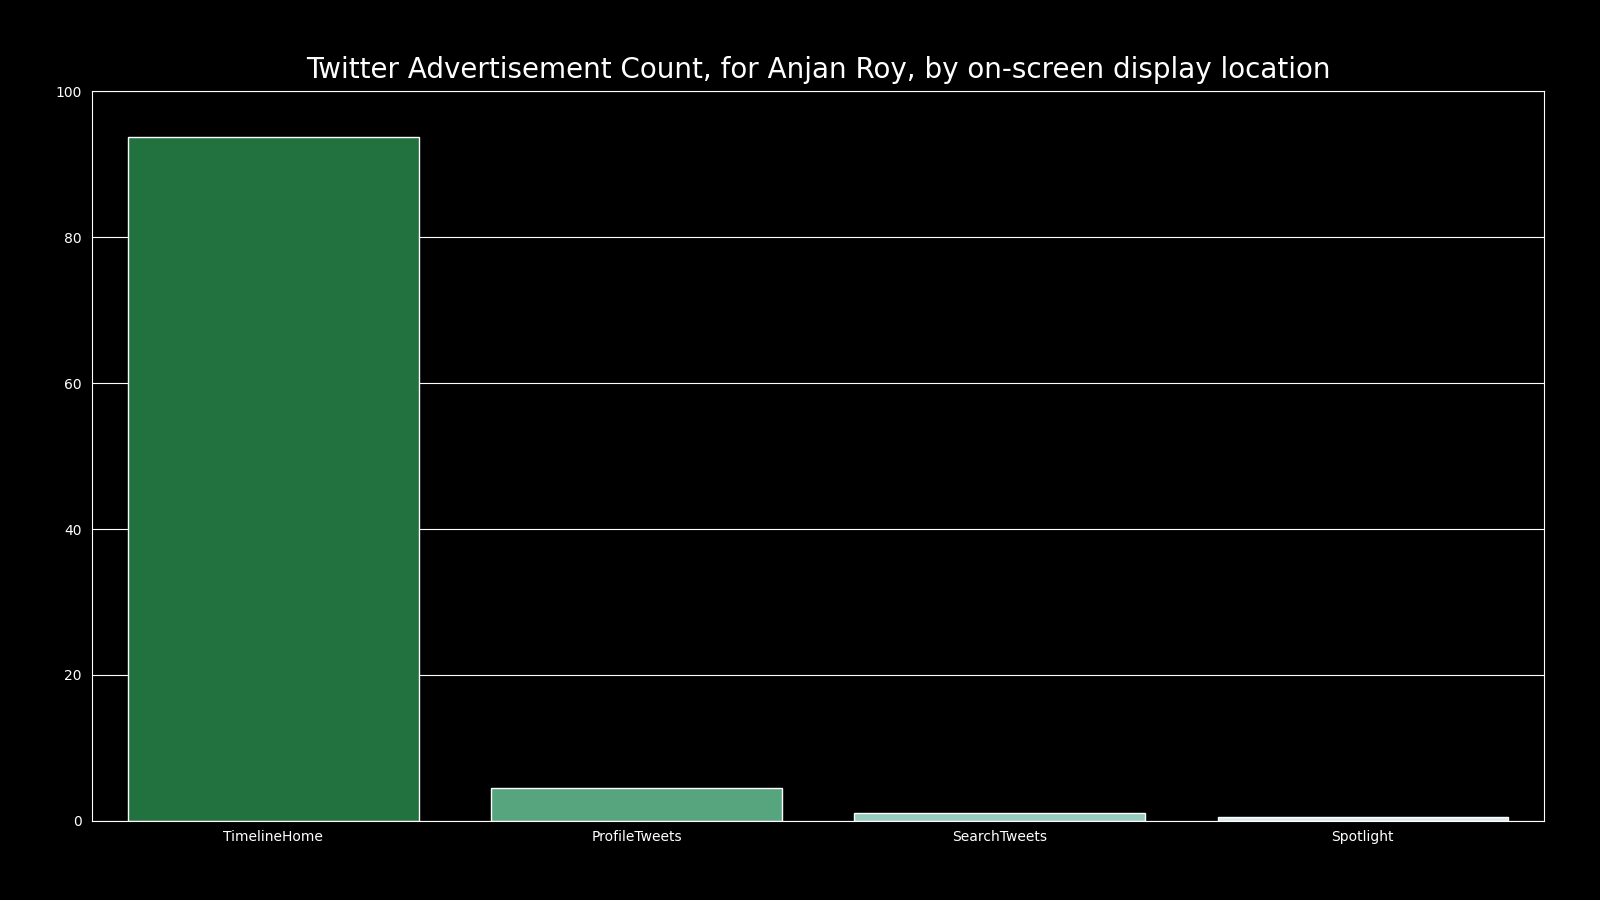
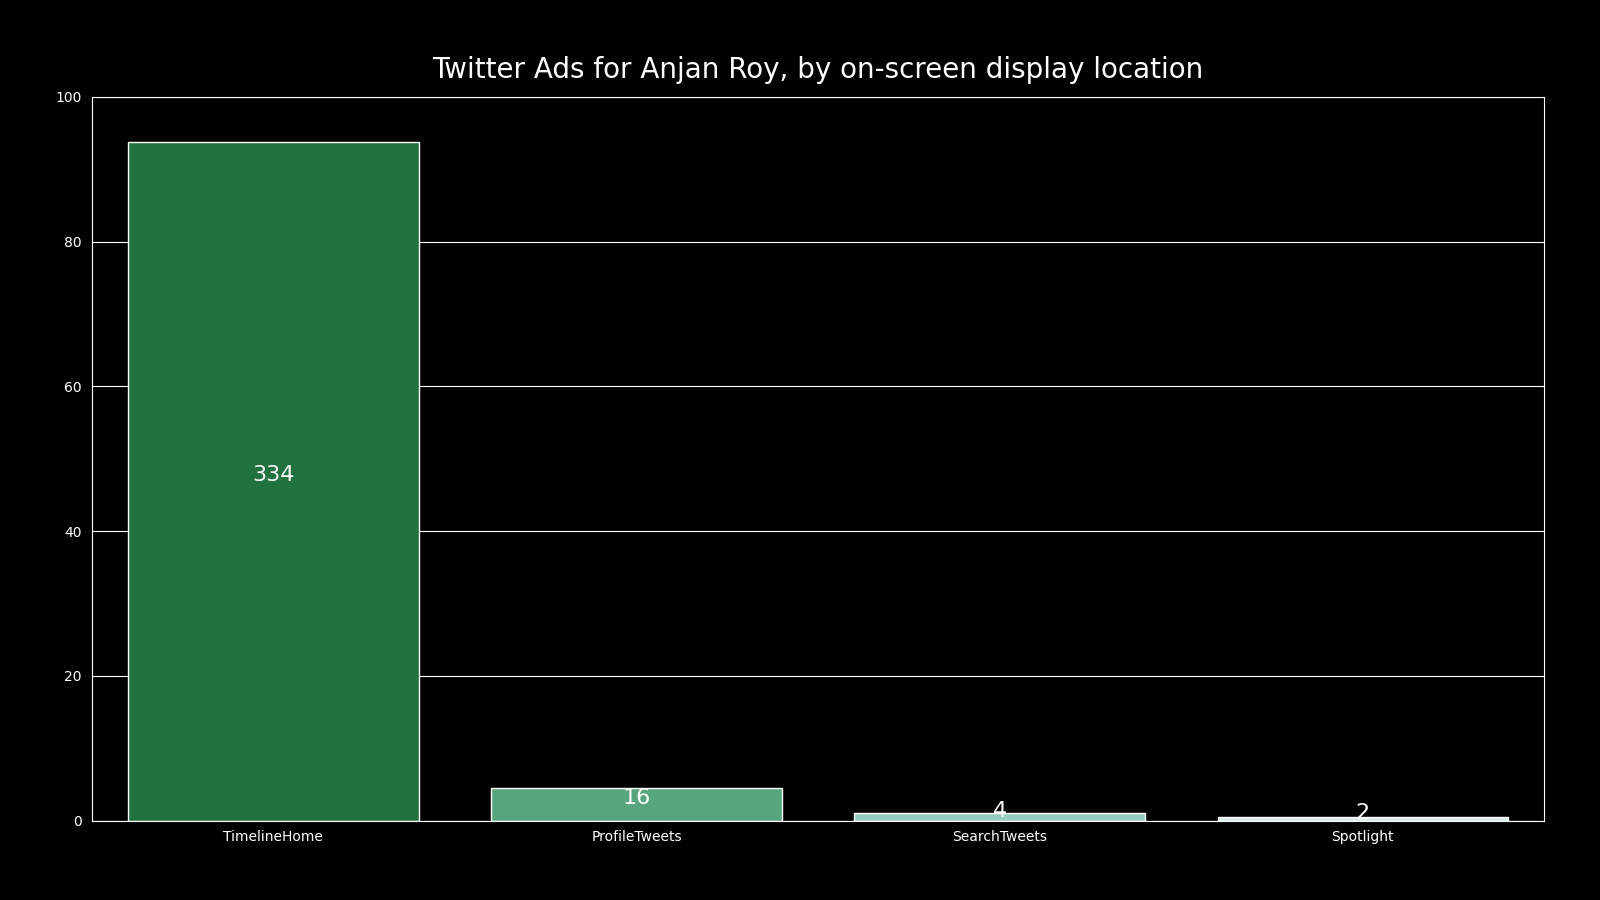
generated plot, added doc, updated readme

diff --git a/twiz/plot/ad/engagement/viz.py b/twiz/plot/ad/engagement/viz.py
@@ -43,13 +43,25 @@ def plotPercentageOfShownAdsByLocationOfDisplay(data: Engagements, title: str, s
         x = [i[0] for i in _tmp]
         y = [i[1] for i in _tmp]
 
+        _counts = data.countByDisplayLocation()
+        _counts = [_counts[i] for i in x]
+
         with plt.style.context('dark_background'):
             fig = plt.Figure(figsize=(16, 9), dpi=100)
 
             sns.barplot(x=x, y=y, ax=fig.gca(), palette='BuGn_r')
 
+            for i, j in enumerate(fig.gca().patches):
+                fig.gca().text(j.get_x() + j.get_width() * .5,
+                               j.get_y() + j.get_height() * .5,
+                               _counts[i],
+                               ha='center',
+                               rotation=0,
+                               fontsize=16,
+                               color='white')
+
             fig.gca().set_ylim(0, 100)
-            fig.gca().set_title(title, fontsize=20, pad=10)
+            fig.gca().set_title(title, fontsize=20, pad=14)
             fig.tight_layout(pad=4)
 
             fig.savefig(sink, pad_inches=.8)

diff --git a/twiz/main.py b/twiz/main.py
@@ -129,7 +129,7 @@ def main():
                     _joinName(_accountDisplayName))),
             plotPercentageOfShownAdsByLocationOfDisplay(
                 _engagements,
-                'Twitter Advertisement Count, for {}, by on-screen display location'.format(
+                'Twitter Ads for {}, by on-screen display location'.format(
                     _accountDisplayName),
                 'plots/twitterAdCountByDisplayLocationFor{}.png'.format(
                     _joinName(_accountDisplayName))

diff --git a/README.md b/README.md
@@ -41,5 +41,6 @@ twiz path-to-twitter-data.zip sink/
 - Advertisement
     - Engagements
         - [Twitter Advertisements targeting YOU on various devices](./docs/twitterAdsTargetingYOUOnDevices.md)
+        - [Twitter Ads for *YOU*, by on-screen display location](./docs/twitterAdCountByDisplayLocationForYOU.md)
 
 **This section will keep getting populated ;)**

diff --git a/docs/twitterAdCountByDisplayLocationForYOU.md b/docs/twitterAdCountByDisplayLocationForYOU.md
@@ -1,0 +1,11 @@
+# Twitter Ads for *YOU*, by on-screen display location
+
+## intro
+
+We're going to classify all twitter advertisments, in which you engaged, into classes & shown their respective count as a bar plot.
+
+## example
+
+Here's a sample plot.
+
+![twitterAdCountByDisplayLocationForAnjan_Roy](../plots/twitterAdCountByDisplayLocationForAnjan_Roy.png)
